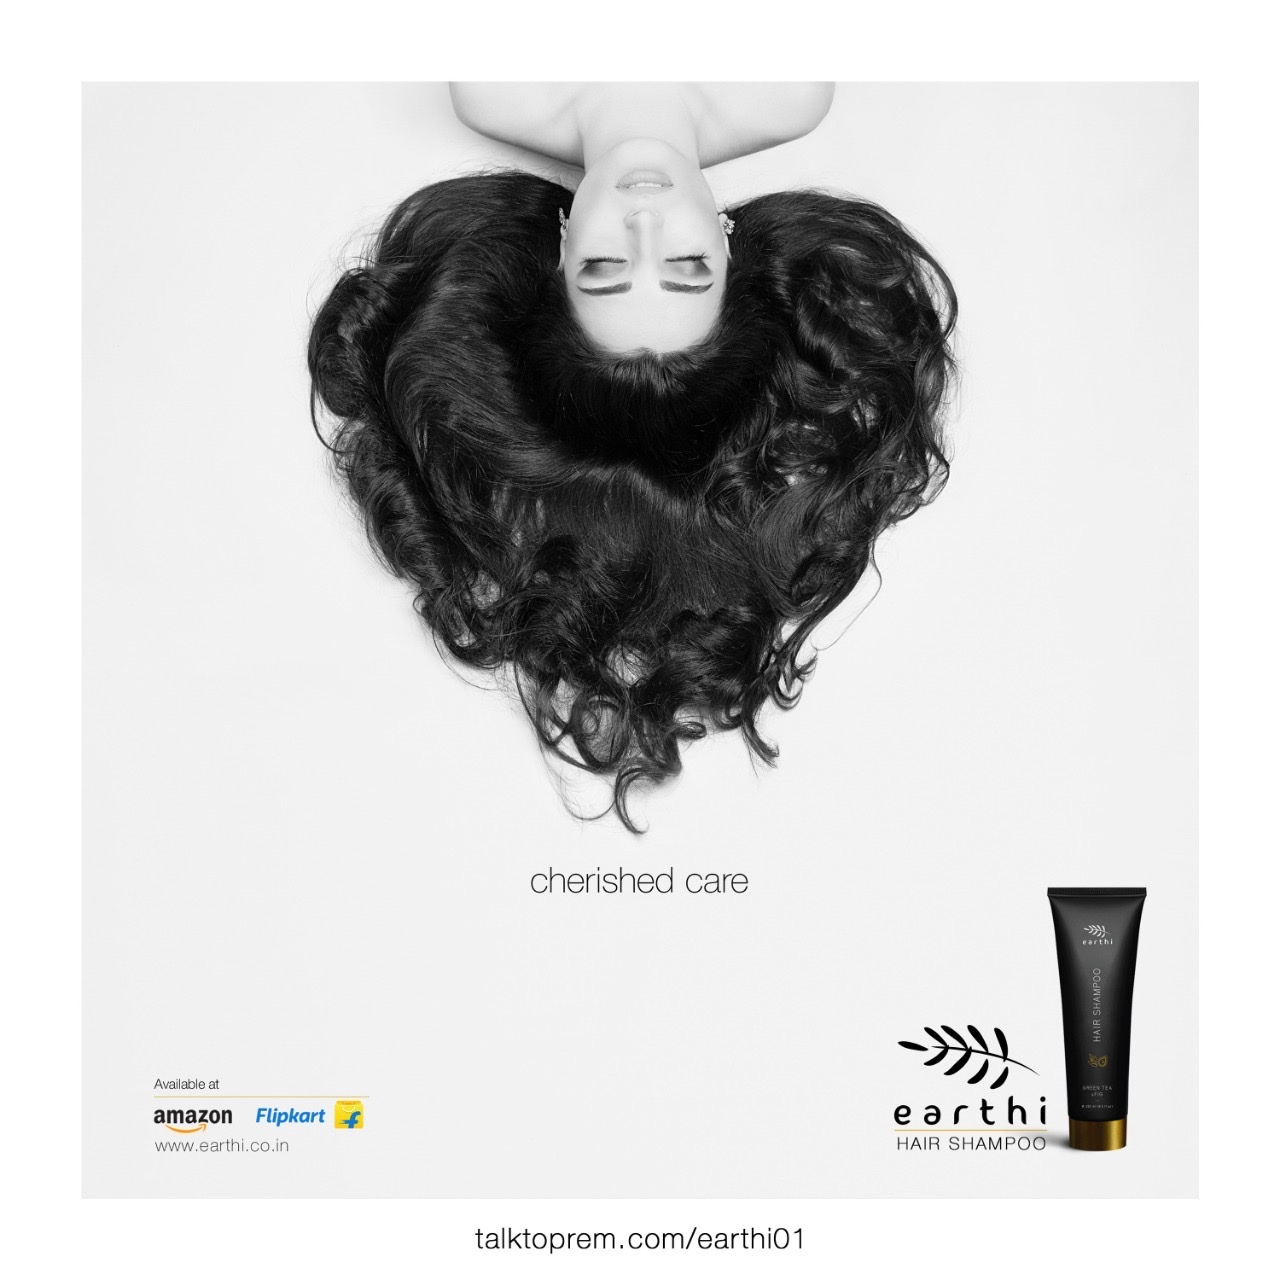
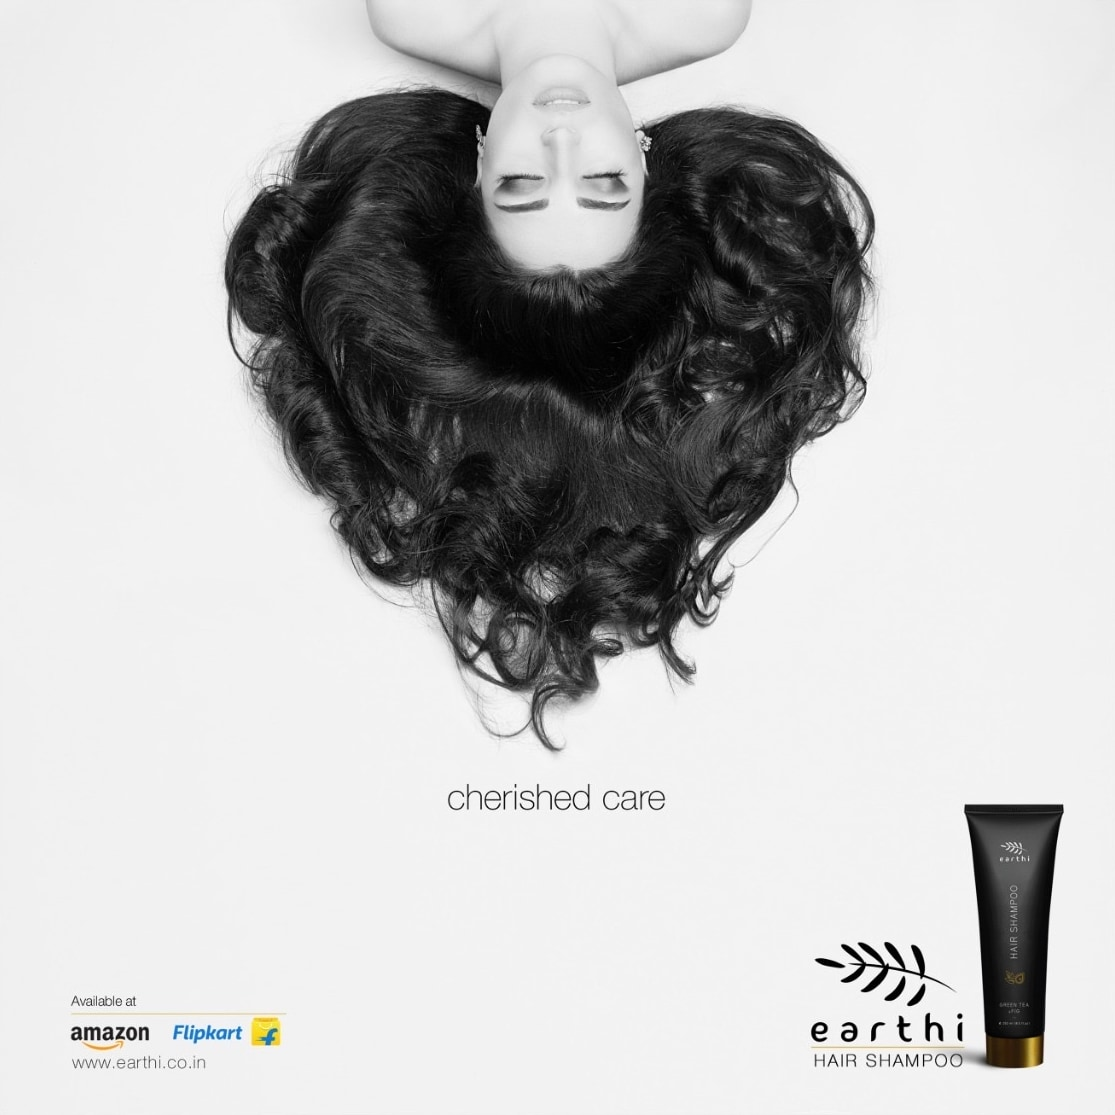
Poster rows: own scrolling, arrows, aligned to the page text; earthi poster cropped; rounded next-project thumbnail

diff --git a/js/designs.js b/js/designs.js
@@ -498,13 +498,17 @@ DESIGNS.redwall = (p, h) => {
 DESIGNS.carousel = (p, h) => {
   const posters = p.modules.filter((m) => m.type === 'poster');
   return [
-    h.el('section', { class: 'dz-hs kc-strip', 'data-hs': true }, [
+    h.el('section', { class: 'dz-hs kc-strip', 'data-hs': true, 'data-hs-own': true }, [
       h.el('div', { class: 'dz-hs__pin' }, [
         h.el('div', { class: 'dz-hs__track' }, [
           ...posters.map((m, i) => h.el('figure', { class: 'kc-card', tabindex: '0', style: `--tilt:${i % 2 ? 1.6 : -1.6}deg` }, [
             posterImg(h, m),
             h.el('figcaption', {}, [h.el('b', { text: m.title }), m.note && h.el('span', { text: m.note })]),
           ])),
+        ]),
+        h.el('div', { class: 'kc-nav' }, [
+          h.el('button', { class: 'kc-nav__btn', type: 'button', 'data-hs-step': '-1', 'aria-label': 'Previous posters' }, [arrowSvg('M10 3L5 8l5 5')]),
+          h.el('button', { class: 'kc-nav__btn', type: 'button', 'data-hs-step': '1', 'aria-label': 'More posters' }, [arrowSvg('M6 3l5 5-5 5')]),
         ]),
       ]),
     ]),
@@ -599,13 +603,37 @@ export function startMotion(page, reduced) {
   if (reduced) return () => {};
   const par = [...page.querySelectorAll('[data-parallax]')];
   const zoom = [...page.querySelectorAll('[data-zoom]')];
-  const strips = [...page.querySelectorAll('[data-hs]')].map((s) => ({ s, pin: s.firstElementChild, track: s.querySelector('.dz-hs__track') }));
+  // Two kinds of sideways rows: pinned ones slide as the page scrolls past them; "own" rows
+  // (data-hs-own) scroll by themselves while the mouse is over them, and leave the page alone
+  const strips = [...page.querySelectorAll('[data-hs]')].map((s) => ({
+    s, pin: s.firstElementChild, track: s.querySelector('.dz-hs__track'), own: s.hasAttribute('data-hs-own'), x: 0, to: 0,
+  }));
   if (!par.length && !zoom.length && !strips.length) return () => {};
   const wide = window.matchMedia('(min-width: 721px)');
   let frame = 0;
+  // An "own" row runs on past its last poster, so that poster can travel to the middle of the screen
+  const maxOf = (st) => Math.max(0, st.track.scrollWidth - st.pin.clientWidth + (st.own ? endRoom(st) : 0));
+  const endRoom = (st) => {
+    const last = st.track.lastElementChild;
+    return last ? Math.max(0, (st.pin.clientWidth - last.offsetWidth) / 2 - (parseFloat(getComputedStyle(st.track).paddingRight) || 0)) : 0;
+  };
 
+  // The first poster of an "own" row starts where the page's title text starts (the row runs edge to
+  // edge, and the text sits in the page's column, so the gap is measured rather than set)
+  const lead = page.querySelector('.proj__lead');
+  const alignLead = () => {
+    for (const st of strips) {
+      if (!st.own) continue;
+      if (!lead || !wide.matches) { st.track.style.paddingLeft = ''; continue; }
+      const rowLeft = st.track.getBoundingClientRect().left + st.x; // where the row begins, ignoring its scroll
+      st.track.style.paddingLeft = `${Math.max(0, lead.getBoundingClientRect().left - rowLeft).toFixed(1)}px`;
+    }
+  };
   const size = () => {
-    for (const { s, pin, track } of strips) {
+    alignLead();
+    for (const st of strips) {
+      const { s, pin, track } = st;
+      if (st.own) { st.to = Math.min(st.to, maxOf(st)); continue; }
       s.style.height = wide.matches ? `${track.scrollWidth - pin.clientWidth + page.clientHeight}px` : '';
     }
   };
@@ -626,8 +654,17 @@ export function startMotion(page, reduced) {
       const t = Math.min(1, Math.max(0, (vh - r.top) / (vh + r.height)));
       el.style.transform = `scale(${(1.14 - 0.14 * Math.min(1, t * 1.6)).toFixed(4)})`;
     }
-    for (const { s, pin, track } of strips) {
-      if (!wide.matches) { track.style.transform = ''; continue; }
+    for (const st of strips) {
+      const { s, pin, track } = st;
+      if (!wide.matches) { track.style.transform = ''; st.x = st.to = 0; continue; }
+      if (st.own) {
+        // glide towards where the wheel or arrows sent it
+        st.x += (st.to - st.x) * 0.16;
+        if (Math.abs(st.to - st.x) < 0.5) st.x = st.to;
+        else queue();
+        track.style.transform = `translate3d(${(-st.x).toFixed(1)}px, 0, 0)`;
+        continue;
+      }
       const r = s.getBoundingClientRect();
       const run = s.offsetHeight - vh;
       const t = run > 0 ? Math.min(1, Math.max(0, -r.top / run)) : 0;
@@ -635,16 +672,78 @@ export function startMotion(page, reduced) {
     }
   };
   const queue = () => { if (!frame) frame = requestAnimationFrame(update); };
-  const resize = () => { size(); queue(); };
+  const resize = () => { size(); queue(); ends(); };
   const ro = new ResizeObserver(resize);
   ro.observe(page);
   strips.forEach(({ track }) => ro.observe(track));
+  // Pictures arrive late (lazy) and widen the row: measure again as each one lands, so the
+  // row always reaches the last one
+  const loaded = (e) => { if (e.target.tagName === 'IMG') resize(); };
+  strips.forEach(({ track }) => {
+    track.addEventListener('load', loaded, true);
+    // the row's pictures are all needed for its width: fetch them now rather than as they slide in
+    track.querySelectorAll('img[loading="lazy"]').forEach((img) => (img.loading = 'eager'));
+  });
+  const stripOf = (node) => strips.find((st) => st.s === node?.closest?.('[data-hs]'));
+  // Arrows grey out at either end
+  const ends = () => strips.forEach((st) => {
+    const prev = st.s.querySelector('[data-hs-step="-1"]'), next = st.s.querySelector('[data-hs-step="1"]');
+    if (!prev && !next) return;
+    let atStart, atEnd;
+    if (st.own) { atStart = st.to <= 1; atEnd = st.to >= maxOf(st) - 1; }
+    else {
+      const r = st.s.getBoundingClientRect(), run = st.s.offsetHeight - page.clientHeight;
+      atStart = r.top >= -1; atEnd = run <= 0 || r.top <= -run + 1;
+    }
+    if (prev) prev.disabled = atStart;
+    if (next) next.disabled = atEnd;
+  });
+  const moveTo = (st, to) => { st.to = Math.min(maxOf(st), Math.max(0, to)); ends(); queue(); };
+  // The mouse over an "own" row scrolls the row (up/down or sideways); anywhere else the page scrolls.
+  // Over the posters the page never moves, even at the ends of the row; move the mouse off them to scroll the page.
+  const wheel = (e) => {
+    if (!wide.matches) return;
+    const st = stripOf(e.target);
+    if (!st) return;
+    const d = Math.abs(e.deltaX) > Math.abs(e.deltaY) ? e.deltaX : e.deltaY;
+    const px = e.deltaMode === 1 ? d * 32 : e.deltaMode === 2 ? d * page.clientHeight : d;
+    if (st.own) {
+      if (!e.target.closest('.dz-hs__track')) return; // beside the row (e.g. its arrows): the page scrolls
+      e.preventDefault();
+      moveTo(st, st.to + px);
+    } else if (Math.abs(e.deltaX) > Math.abs(e.deltaY)) {
+      e.preventDefault(); // a sideways swipe on a pinned row moves it too
+      page.scrollTop += e.deltaX;
+    }
+  };
+  page.addEventListener('wheel', wheel, { passive: false });
+  // Arrow buttons: one poster at a time
+  const stepBy = (st, dir) => {
+    const card = st.track.firstElementChild;
+    const step = (card?.offsetWidth || 400) + (parseFloat(getComputedStyle(st.track).columnGap) || 0);
+    if (st.own) return moveTo(st, st.to + dir * step);
+    // a pinned row: one pixel down the page is one pixel along; bring the row into its stretch first
+    const r = st.s.getBoundingClientRect(), run = st.s.offsetHeight - page.clientHeight;
+    const into = r.top > 0 ? r.top : r.top < -run ? r.top + run : 0;
+    page.scrollBy({ top: into + dir * step, behavior: 'smooth' });
+  };
+  const clicks = (e) => {
+    const b = e.target.closest?.('[data-hs-step]');
+    const st = b && stripOf(b);
+    if (st) stepBy(st, Number(b.dataset.hsStep));
+  };
+  page.addEventListener('click', clicks);
+  page.addEventListener('scroll', ends, { passive: true });
   page.addEventListener('scroll', queue, { passive: true });
   wide.addEventListener('change', resize);
   resize();
   return () => {
     cancelAnimationFrame(frame);
     ro.disconnect();
+    strips.forEach(({ track }) => track.removeEventListener('load', loaded, true));
+    page.removeEventListener('wheel', wheel);
+    page.removeEventListener('click', clicks);
+    page.removeEventListener('scroll', ends);
     page.removeEventListener('scroll', queue);
     wide.removeEventListener('change', resize);
   };

diff --git a/css/designs.css b/css/designs.css
@@ -563,7 +563,8 @@ figure:has(> img[data-zoom]), .ar-plate { overflow: hidden; }
 .rw2-note { color: var(--th-soft); font: 500 clamp(11px, 0.85vw, 14px) / 1.3 var(--display); letter-spacing: 0.1em; text-transform: uppercase; }
 
 /* Kadalas Cafe · carousel */
-.kc-strip .dz-hs__pin { align-items: flex-start; padding-top: clamp(64px, 11vh, 120px); } /* sits a little higher on the screen */
+/* The row scrolls on its own (mouse over it), so it sits in the page instead of pinning to the screen */
+.kc-strip .dz-hs__pin { position: relative; height: auto; align-items: flex-start; padding: clamp(64px, 11vh, 120px) 0 clamp(110px, 14vh, 150px); }
 .kc-strip .dz-hs__track { align-items: flex-start; gap: clamp(28px, 3.4vw, 72px); }
 .kc-intro { flex: none; width: min(30vw, 480px); display: grid; gap: 18px; }
 .kc-kicker { color: var(--th-ink); font: 600 13px / 1 var(--display); letter-spacing: 0.18em; text-transform: uppercase; opacity: 0.7; }
@@ -575,6 +576,19 @@ figure:has(> img[data-zoom]), .ar-plate { overflow: hidden; }
 .page .kc-card img { flex: 1 1 auto; min-height: 0; width: auto; height: auto; max-height: calc(100% - 64px); border-radius: 18px; box-shadow: 0 40px 80px -40px rgba(15, 59, 57, 0.55); }
 .kc-card figcaption { display: grid; gap: 4px; padding-top: 14px; }
 .kc-card figcaption b { font: 700 clamp(15px, 1.2vw, 22px) / 1.15 var(--display); color: var(--th-ink); }
+/* Arrows to step along the row (scrolling down, or a sideways swipe, moves it too) */
+.kc-nav { position: absolute; left: 50%; transform: translateX(calc(-50% + clamp(80px, 8vw, 160px))); bottom: clamp(8px, 1.5vh, 20px); /* beneath the posters, a little right of centre */ display: flex; gap: 10px; z-index: 2; }
+.kc-nav__btn {
+  width: 52px; height: 52px; border-radius: 50%; display: grid; place-items: center; cursor: pointer;
+  border: 1px solid var(--th-line); background: var(--th-bg, #fff); color: var(--th-ink);
+  box-shadow: 0 12px 30px -14px rgba(0, 0, 0, 0.35);
+  transition: transform 0.3s cubic-bezier(0.22, 1, 0.36, 1), background-color 0.25s, color 0.25s, opacity 0.25s;
+}
+.kc-nav__btn svg { width: 20px; height: 20px; }
+.kc-nav__btn:hover:not(:disabled) { background: var(--th-ink); color: var(--th-bg, #fff); transform: scale(1.06); }
+.kc-nav__btn:active:not(:disabled) { transform: scale(0.96); }
+.kc-nav__btn:disabled { opacity: 0.3; cursor: default; }
+.kc-nav__btn:focus-visible { outline: 2px solid var(--th-accent); outline-offset: 3px; }
 .kc-card figcaption span { display: inline-block; justify-self: start; padding: 4px 10px; border-radius: 999px; background: var(--th-accent); color: var(--th-ink); font: 600 11px / 1.2 var(--display); letter-spacing: 0.1em; text-transform: uppercase; }
 
 /* Other posters · exhibit */
@@ -598,6 +612,7 @@ figure:has(> img[data-zoom]), .ar-plate { overflow: hidden; }
   .rw2-wall { display: flex; flex-direction: column; gap: 56px; } /* one column, posters in order */
   .rw2-col { display: contents; }
   .kc-intro { width: 100%; }
+  .kc-nav { display: none; } /* on phones the posters stack and simply scroll */
   .kc-card { height: auto; rotate: 0deg; margin-bottom: 40px; }
   .page .kc-card img { width: 100%; height: auto; }
   .ex-room, .ex-room.is-right { grid-template-columns: minmax(0, 1fr); }

diff --git a/js/work/poster-design.js b/js/work/poster-design.js
@@ -91,7 +91,7 @@ export default {
         { type: 'poster', src: 'assets/work/poster-design/other-posters/thala-vazhai-virunthu.jpg', w: 1409, h: 2000, title: 'Thala Vazhai Virunthu', alt: 'Thala Vazhai Virunthu poster: a South Indian meal on a banana leaf', note: 'Weekend lunch' },
         { type: 'poster', src: 'assets/work/poster-design/other-posters/vishu-2026.jpg', w: 1600, h: 2000, title: 'Vishu 2026', alt: 'Happy Vishu 2026 poster with a peacock-feather crown', note: 'Festival greeting' },
         { type: 'poster', src: 'assets/work/poster-design/other-posters/new-year-celebration.jpg', w: 1414, h: 2000, title: 'New Year Celebration', alt: 'New Year celebration flyer with ticket prices and event highlights', note: 'Event flyer' },
-        { type: 'poster', src: 'assets/work/poster-design/other-posters/earthi-hair-care.jpg', w: 1280, h: 1280, title: 'earthi — cherished care', alt: 'earthi hair care poster: cherished care', note: 'Product' },
+        { type: 'poster', src: 'assets/work/poster-design/other-posters/earthi-hair-care.jpg', w: 1115, h: 1115, title: 'earthi — cherished care', alt: 'earthi hair care poster: cherished care', note: 'Product' },
         { type: 'poster', src: 'assets/work/poster-design/other-posters/earthi-face-wash.jpg', w: 904, h: 1280, title: 'earthi — rosy fresh', alt: 'earthi facial wash poster: rosy fresh', note: 'Product' },
         { type: 'poster', src: 'assets/work/poster-design/other-posters/online-tuition-classes.jpg', w: 1600, h: 2000, title: 'Online Tuition Classes', alt: 'Online tuition classes poster for school students and coding beginners: subjects offered and why choose us', note: 'Education' },
       ],

diff --git a/404.html b/404.html
@@ -18,11 +18,11 @@
   <link rel="preload" href="public/fonts/NeueMontreal-Bold.otf" as="font" type="font/otf" crossorigin>
   <!-- Inter Tight is only the fallback face: loaded without holding up the first paint -->
   <link rel="stylesheet" href="https://fonts.googleapis.com/css2?family=Inter+Tight:wght@400;500;700&display=swap" media="print" onload="this.media='all'">
-  <link rel="stylesheet" href="css/style.css?v=89">
-  <link rel="stylesheet" href="css/pages.css?v=89">
-  <link rel="stylesheet" href="css/designs.css?v=89">
+  <link rel="stylesheet" href="css/style.css?v=101">
+  <link rel="stylesheet" href="css/pages.css?v=101">
+  <link rel="stylesheet" href="css/designs.css?v=101">
   <script>document.documentElement.classList.add('js');</script>
-  <script type="module" src="js/main.js?v=89"></script>
+  <script type="module" src="js/main.js?v=101"></script>
 </head>
 <body>
   <!-- Page loader: the cat on its bar while the page loads; the bar fills lime, then it fades away -->

diff --git a/index.html b/index.html
@@ -23,11 +23,11 @@
   <link rel="preload" href="public/fonts/NeueMontreal-Bold.otf" as="font" type="font/otf" crossorigin>
   <!-- Inter Tight is only the fallback face: loaded without holding up the first paint -->
   <link rel="stylesheet" href="https://fonts.googleapis.com/css2?family=Inter+Tight:wght@400;500;700&display=swap" media="print" onload="this.media='all'">
-  <link rel="stylesheet" href="css/style.css?v=89">
-  <link rel="stylesheet" href="css/pages.css?v=89">
-  <link rel="stylesheet" href="css/designs.css?v=89">
+  <link rel="stylesheet" href="css/style.css?v=101">
+  <link rel="stylesheet" href="css/pages.css?v=101">
+  <link rel="stylesheet" href="css/designs.css?v=101">
   <script>document.documentElement.classList.add('js');</script>
-  <script type="module" src="js/main.js?v=89"></script>
+  <script type="module" src="js/main.js?v=101"></script>
 </head>
 <body>
   <!-- Page loader: the cat on its bar while the page loads; the bar fills lime, then it fades away -->

diff --git a/js/work/variants.js b/js/work/variants.js
@@ -357,7 +357,7 @@ export const variants = {
   'assets/work/poster-design/kadalas-cafe/landing-soon.jpg': [1066, 1066, 640],
   'assets/work/poster-design/kadalas-cafe/meaty-tales.jpg': [904, 904, 640],
   'assets/work/poster-design/other-posters/earthi-face-wash.jpg': [904, 904, 640],
-  'assets/work/poster-design/other-posters/earthi-hair-care.jpg': [1280, 1280, 640],
+  'assets/work/poster-design/other-posters/earthi-hair-care.jpg': [1115, 1115, 640],
   'assets/work/poster-design/other-posters/native-touch.jpg': [1414, 1414, 640, 1280],
   'assets/work/poster-design/other-posters/new-year-celebration.jpg': [1414, 1414, 640, 1280],
   'assets/work/poster-design/other-posters/online-tuition-classes.jpg': [1600, 1600, 640, 1280],

diff --git a/css/pages.css b/css/pages.css
@@ -184,7 +184,7 @@
 .page__next-title::after { content: ' →'; }
 .page__next:hover .page__next-title { transform: translateX(0.6vw); }
 .page__next-meta { font: 400 clamp(14px, 1vw, 18px) / 1.35 var(--text); color: var(--ink-soft); }
-.page__next-media { flex: none; width: clamp(160px, 16vw, 300px); aspect-ratio: 4 / 3; overflow: hidden; background: var(--cream-2); }
+.page__next-media { flex: none; width: clamp(160px, 16vw, 300px); aspect-ratio: 4 / 3; overflow: hidden; background: var(--cream-2); border-radius: 10px; }
 .page__next-media img { height: 100%; min-height: 0; object-fit: cover; transition: transform 1s var(--ease); }
 .page__next:hover .page__next-media img { transform: scale(1.05); }
 
